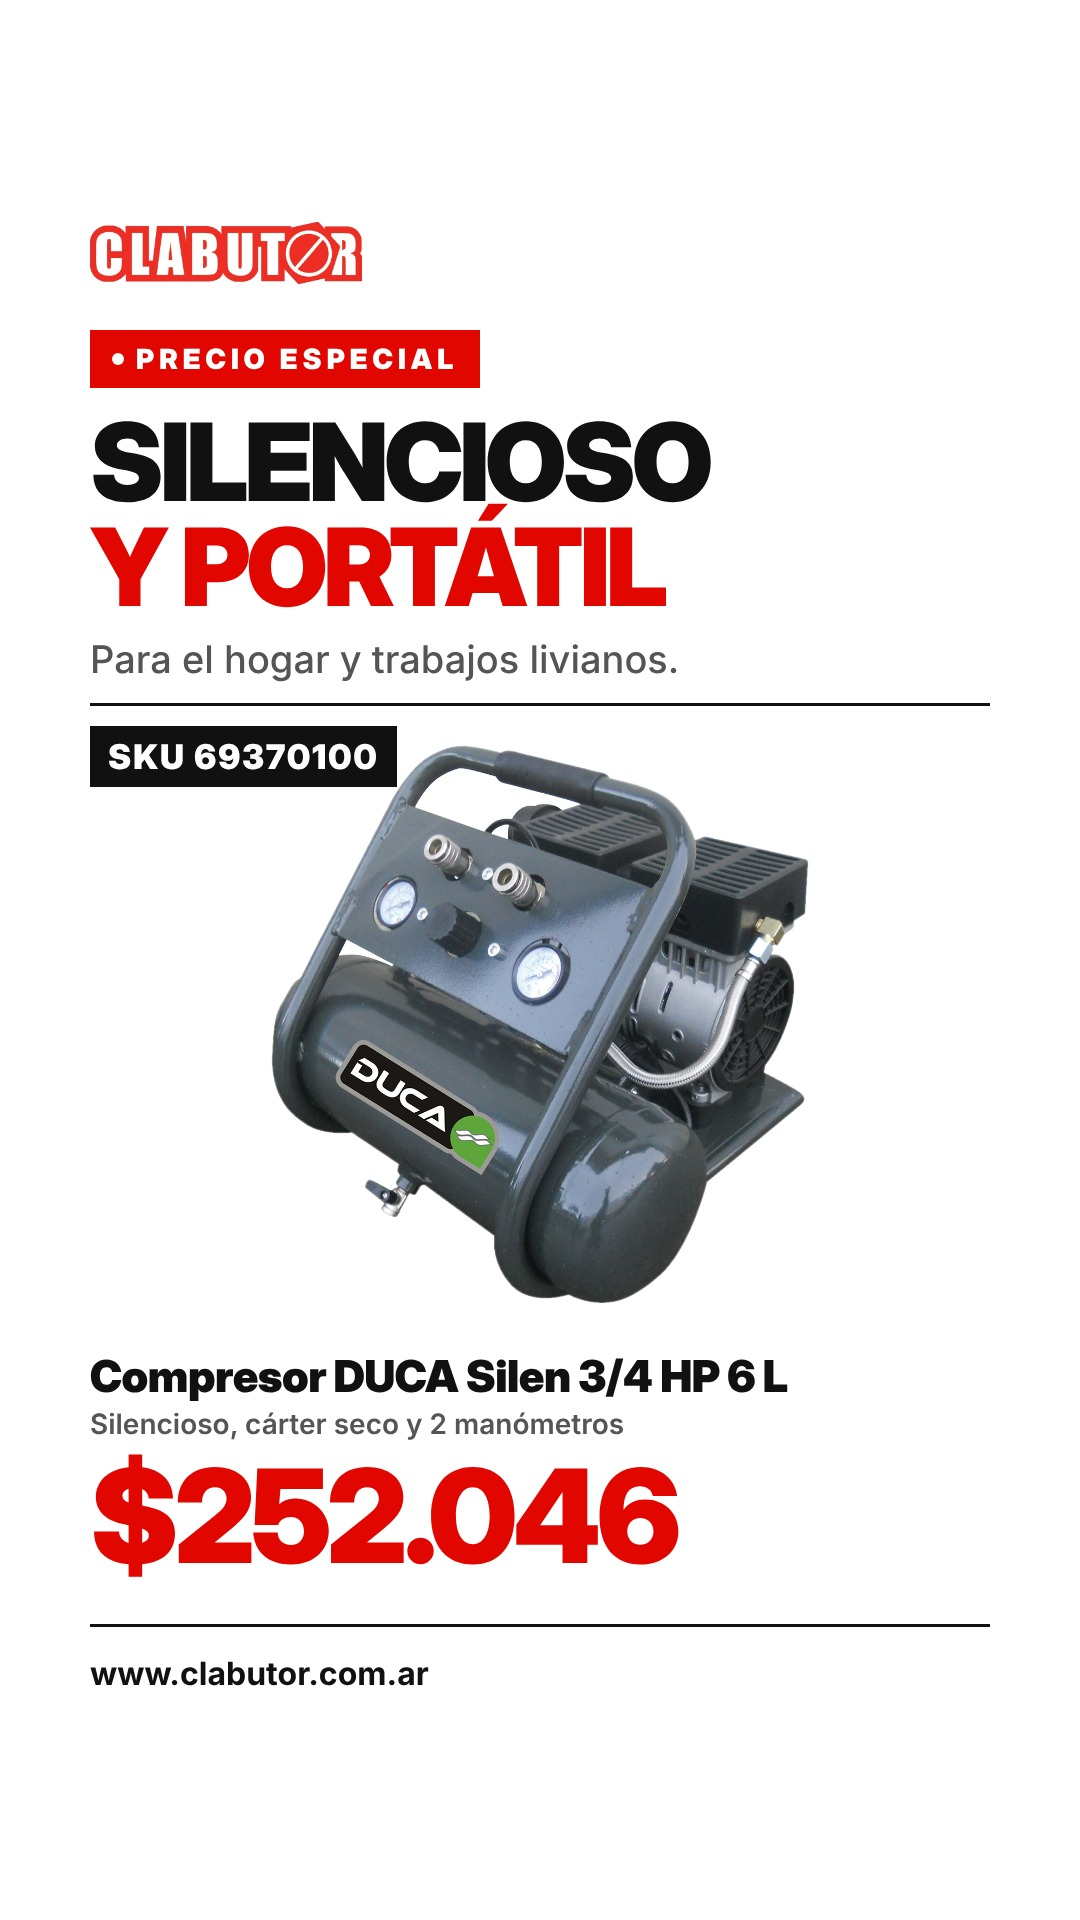
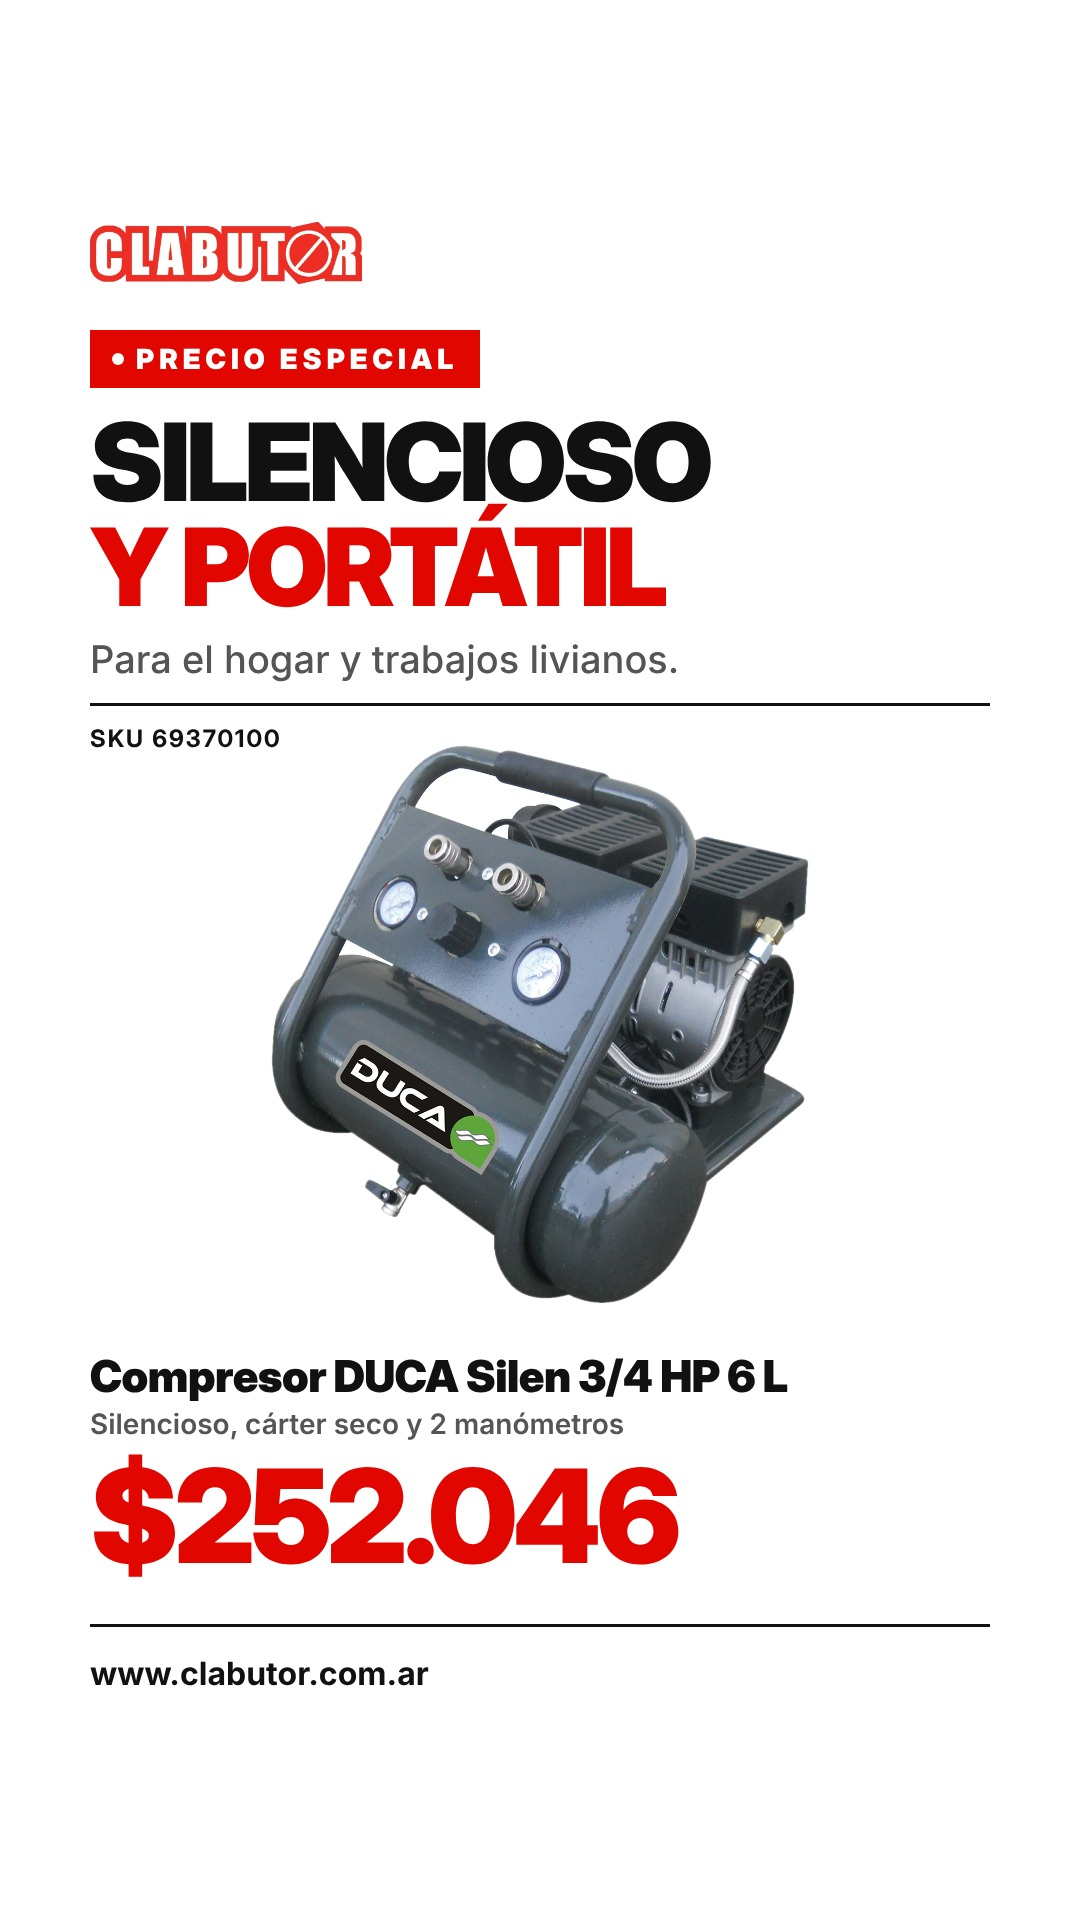
Compresores domingo: SKU chico, sin fondo
Claude-Session: https://claude.ai/code/session_01XbJLpPx7CCs1ipZpL6GiAh

Changed region(s): [[0.0611, 0.375, 0.3667, 0.4375]]

diff --git a/disenos/posteos/historia-compresores-domingo.py b/disenos/posteos/historia-compresores-domingo.py
@@ -48,7 +48,7 @@ def placa_producto(g, sku, nombre, rasgo, costo, titulo, uso):
 <h1 style="font-size:108px;margin-top:22px;white-space:nowrap">{titulo}</h1>
 <p class="bajada" style="font-size:38px;margin-top:16px">{uso}</p>
 <div style="position:relative;height:640px;margin-top:20px;border-top:3px solid {NEGRO};display:flex;align-items:center;justify-content:center">{foto(sku, "max-width:96%;max-height:560px")}
-  <div style="position:absolute;top:20px;left:0;background:{NEGRO};color:#fff;font-family:Titular;font-weight:900;font-size:34px;letter-spacing:2px;padding:10px 18px">SKU {sku}</div></div>
+  <div style="position:absolute;top:18px;left:0;color:{NEGRO};font-family:Titular;font-weight:700;font-size:24px;letter-spacing:2px">SKU {sku}</div></div>
 <div style="font-family:Titular;font-weight:900;font-size:44px;line-height:1.05;letter-spacing:-.5px;margin-top:10px">{nombre}</div>
 <div style="font-weight:600;font-size:28px;color:#555;margin-top:8px">{rasgo}</div>
 <div style="font-family:Titular;font-weight:900;font-size:130px;letter-spacing:-5px;line-height:1;color:{ROJO};margin-top:10px">{pesos(costo * MARGEN)}</div>
